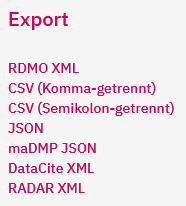
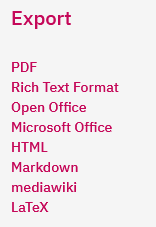
yet another update chapter 3.1

Changed region(s): [[0.0256, 0.2621, 0.9487, 0.9612], [0.0256, 0.0291, 0.4615, 0.1456]]

diff --git a/Kapitel3_Datenmanagement/organisation.md b/Kapitel3_Datenmanagement/organisation.md
@@ -37,36 +37,27 @@ Das oben genannte Datenmanagement wird durch das Verfassen eines DMP erreicht. W
 *Nochmal eingehen auf Auswahl und clusterung der daten*
 *Eingehen auf Datenbenennung*
 
-Im Beispielszenario 'Q-LCA Forschungsdatenveröffentlichung' musste ein DMP nachträglich verfasst werden, weil während der Projektlaufzeit noch keiner angelegt wurde. Dazu wurde das Tool Research Data Management Organiser <a href="https://rdmo.fdm-bb.de/" class="external-link" class="external-link" target="_blank">RDMO</a> verwendet. Zu den Vorteilen von RDMO gehört, dass es in Deutschland entwickelt wurde und daher auf die spezifischen Förderbedingungen und die Rechtslage Bezug nehmen kann. Anhand eines Fragenkatalogs werden Aussagen über das Projekt und die darin entstandenen Forschungsdaten zusammengestellt und ein DMP angefertigt. Darüber hinaus können Werte importiert und der DMP in verschiedenen Formaten (darunter XML, CSV und JSON) exportiert werden (s. Abb. 3.4).
+Im Beispielszenario 'Q-LCA Forschungsdatenveröffentlichung' musste ein DMP nachträglich verfasst werden, weil während der Projektlaufzeit noch keiner angelegt wurde. Dazu wurde das Tool Research Data Management Organiser <a href="https://rdmo.fdm-bb.de/" class="external-link" class="external-link" target="_blank">RDMO</a> verwendet. Zu den Vorteilen von RDMO gehört, dass es in Deutschland entwickelt wurde und daher auf die spezifischen Förderbedingungen und die Rechtslage Bezug nehmen kann. Anhand eines Fragenkatalogs werden Aussagen über das Projekt und die darin entstandenen Forschungsdaten zusammengestellt und ein DMP angefertigt. Darüber hinaus können Werte importiert und der DMP in verschiedenen Formaten exportiert werden (s. weiter unten, Abb. 3.6).
 
-```{figure} /assets/dmp_export.png
----
-align: center
-width: 100%
----
-Exportmöglichkeiten eines DMP bei RDMO Brandenburg.
-```
-*Quellenangabe: Screenshot der Exportmöglichkeiten eines DMP bei <a href="https://rdmo.fdm-bb.de/" class="external-link" class="external-link" target="_blank">RDMO Brandenburg</a> vom 09.10.2026.*
+Dieses Unterkapitel führt Sie durch das Anlegen eines DMP am Beispiel des DMP für das Projekt Q-LCA. Bitte beachten Sie: Um selbst einen DMP anzulegen, müssen Sie sich registrieren - z. B. für den <a href="https://rdmo.fdm-bb.de/account/signup/" class="external-link" target="_blank">Brandenburger RDMO-Dienst</a>. Falls Sie sich nicht registrieren wollen oder können, werden Sie durch Beispielbilder trotzdem in der Lage sein, dem Erstellen eines Datenmanagementplans zu folgen.
 
-Dieses Unterkapitel führt Sie Schritt für Schritt durch das Anlegen eines DMP am Beispiel des DMP für das Projekt Q-LCA. Bitte beachten Sie: Um selbst einen DMP anzulegen, müssen Sie sich registrieren - z. B. für den <a href="https://rdmo.fdm-bb.de/account/signup/" class="external-link" target="_blank">Brandenburger RDMO-Dienst</a>. Falls Sie sich nicht registrieren wollen oder können, werden Sie durch Beispielbilder trotzdem in der Lage sein, dem Erstellen eines Datenmanagementplans zu folgen.
-
-Nach der Anmeldung erstellen Sie ein neues Projekt, indem Sie auf den entsprechenden Button klicken. Dieses muss benannt und ein Fragenkatalog ausgewählt werden (s. Abb. 3.5). Der Katalog DFG in der Version 5 sei dabei empfohlen, weil er die <a href="hhttps://www.dfg.de/resource/blob/172112/4ea861510ea369157afb499e96fb359a/leitlinien-forschungsdaten-data.pdf" class="external-link" target="_blank">Leitlinien zum Umgang mit Forschungsdaten</a> mit der <a href="https://www.dfg.de/de/grundlagen-themen/digitale-themen/forschungsdaten" class="external-link" target="_blank">Checkliste zum Umgang mit Forschungsdaten</a> der DFG verbindet. Optional können Sie das Projekt zusätzlich einem übergeordneten Projekt zuweisen.
+Nach der Anmeldung erstellen Sie ein neues Projekt, indem Sie auf den entsprechenden Button klicken. Dieses muss benannt und ein Fragenkatalog ausgewählt werden (s. Abb. 3.4). Der Katalog DFG in der Version 5 sei dabei empfohlen, weil er die <a href="hhttps://www.dfg.de/resource/blob/172112/4ea861510ea369157afb499e96fb359a/leitlinien-forschungsdaten-data.pdf" class="external-link" target="_blank">Leitlinien zum Umgang mit Forschungsdaten</a> mit der <a href="https://www.dfg.de/de/grundlagen-themen/digitale-themen/forschungsdaten" class="external-link" target="_blank">Checkliste zum Umgang mit Forschungsdaten</a> der DFG verbindet. Optional können Sie das Projekt zusätzlich einem übergeordneten Projekt zuweisen.
 
 ```{figure} /assets/dmp_neues_projekt.png
 ---
 align: center
-width: 33%
+width: 50%
 ---
 Eingabemaske zum Anlegen eines neuen Projektes bei RDMO Brandenburg.
 ```
 *Quellenangabe: Screenshot der Eingabemaske zum Anlegen eines neuen Projektes bei <a href="https://rdmo.fdm-bb.de/" class="external-link" class="external-link" target="_blank">RDMO Brandenburg</a> vom 09.10.2026.*
 
-Nachdem das Projekt angelegt wurde, müssen über den Button 'Fragen beantworten' Aussagen zum Projekt und den im Projekt erhobenen Daten eingegeben werden (s. Abb. 3.6).
+Nachdem das Projekt angelegt wurde, müssen über den Button 'Fragen beantworten' Aussagen zum Projekt und den im Projekt erhobenen Daten eingegeben werden (s. Abb. 3.5).
 
 ```{figure} /assets/dmp_fragen_beantworten.png
 ---
 align: center
-width: 33%
+width: 50%
 ---
 Projektansicht mit dem Button 'Fragen beantworten' oben rechts bei RDMO Brandenburg.
 ```
@@ -76,26 +67,27 @@ Anschließend fügen Sie die Datensätze hinzu, die im Projekt entstanden sind. 
 
 ```{admonition} Hinweis
 :class: hinweis
-Die Benennung der Forschungsdaten ist nicht trivial. Überlegen Sie sich eine sinnvolle Ordnung und Zusammenstellung und behalten Sie diese bei. Das im DMP als "FD3_Bilanzierungstool" bezeichnete Datum bzw. Datenpaket sollte auf der Veröffentlichungsplattform genauso heißen. Die Zusammenfassung von Forschungsdaten zu Paketen hat den Vorteil, dass Sie die Dateibenennung, die sich während des Projektes etabliert hat, nicht ändern zu müssen. So lassen sich beispielsweise verschiedene Screenshots in einem Paket "FD4_Screenshots" zusammenfassen. 
+Die Benennung der Forschungsdaten ist nicht trivial. Überlegen Sie sich eine sinnvolle Ordnung und Zusammenstellung und behalten Sie diese bei. Das im DMP als "FD3_Bilanzierungstool" bezeichnete Datum bzw. Datenpaket sollte auf der Veröffentlichungsplattform genauso heißen. Die Zusammenfassung von Forschungsdaten zu Paketen hat den Vorteil, dass Sie die Dateibenennung, die sich während des Projektes etabliert hat, nicht ändern müssen. So lassen sich beispielsweise verschiedene Screenshots in einem Paket "FD4_Screenshots" zusammenfassen. 
 ``` 
-
-Schritte sind u. a.:
-
-- Dateibenennung (Benennung der Forschungsdaten nach einem Schema) -> Hier gilt es mitzunehmen, dass die Dateibenennung im Nachhinein sehr mühsam ist und das aufzupassen ist, dass keine Verständigungsprobleme auftauchen
-- Metadaten (Angabe von Metadaten nach Konventionen der Disziplin)
-- FAIRifizierung/FAIRification (Vollständigkeit der Beschreibung, Maximierung der Interoperabilität (was kann standardisiert werden -> nach ISO), *hier u. a. auch Formate*) -> dazu auch FAIRification von FD-Objekten: https://datascience.codata.org/articles/dsj-2021-004 
-- README (README-Datei zur Dokumentation Anlegen)
 
 Übrigens: RDMO speichert Ihren Fortschritt. Sie müssen also nicht alles in einer Sitzung bearbeiten und fertigstellen.
 
+Am Ende liegt ein Überblick über Ihre Daten vor, der je nach Fragenkatalog verschieden beschrieben ist. Diese sind nun übersichtlich gegliedert und lassen sich u. a. als PDF, Office Dokument oder Markdown Datei exportieren (s. Abb. 3.6). 
+
+```{figure} /assets/dmp_export.png
+---
+align: center
+width: 50%
+---
+Exportmöglichkeiten eines DMP bei RDMO Brandenburg.
+```
+*Quellenangabe: Screenshot der Exportmöglichkeiten eines DMP bei <a href="https://rdmo.fdm-bb.de/" class="external-link" class="external-link" target="_blank">RDMO Brandenburg</a> vom 09.10.2026.*
+
 ## Learnings
 
-- Struktur soweit wie möglich aus dem Projekt übernehmen (Strukturen und Benennungen sind nicht ohne Grund entstanden und folgen einer Logik)
-- Für Quadriga mitnehmen: Dateibenennung im Nachhinein mühsam, aufpassen, dass keine Verständigungsprobleme entstehen.
-- Merke Quadriga: Benennung der Dateien schwierig, oft Anpassungen von Partnern, am Ende muss viel glatt gezogen werden
+Übernehmen Sie die Struktur der Daten soweit wie möglich aus dem Projekt. Diese ist in der Regel nicht ohne Grund entstanden und lässt sich durch eine Dokumentation auch nachvollziehen. Diese Struktur kann der Grundaufbau der Datenbereitstellung sein. Diese sollte egal ob als ZIP, Gesamt- oder Teil-ZIP eine logische Ordnung und Clusterung aufweisen.  
 
-- auch die Bereitstellung war ein Thema (als ZIP, Gesamt-ZIP, Teil-ZIP) -> logische Ordnung und Clusterung
-- Versionierung und Dateibenennung Kompetenzen, die gebraucht werden, wenn man nachträglich aufarbeitet
+In Bezug auf die Dateibenennung sollte beachtet werden, dass zwar einerseits eine verständliche Benennung sinnvoll ist, andererseits bei einer Umbenennung im Nachhinein Vorsicht geboten ist. Die Entwicklung von Dateibenennungen im Projekt folgt oft einer eigenen Logik und ein nachträgliches Umbenennen kann zu Verständigungsproblemen führen. Darüber hinaus ist diese sehr fehleranfällig. Es gilt also einen guten Mittelweg zu finden und eine einmal getroffene Entscheidung konsequent durchzuführen.
 
 ---
 
@@ -107,11 +99,6 @@ Schritte sind u. a.:
 - 5-minütiges Video "Datenmanagement nach Plan" von Schmitz et al. (2019) unter der Lizenz <a href="https://creativecommons.org/licenses/by/4.0/legalcode" class="external-link" target="_blank">CC BY 4.0</a> via <a href="https://publications.rwth-aachen.de/record/751109" class="external-link" target="_blank">RWTH Aachen</a>
 ```
 
----
+Im nächsten Unterkapitel stehen Metadaten, die FAIRifizierung von Datensätzen und das Anlegen einer README-Datei im Fokus. Diese Aspekte können zwar auch Teil des DMP sein, gehören aber zur Kompetenz "Erschließung".
 
-**Literatur**
-
-```{bibliography}
-:filter: docname in docnames
-```
 

diff --git a/Kapitel3_Datenmanagement/erschliessung.md b/Kapitel3_Datenmanagement/erschliessung.md
@@ -14,6 +14,11 @@ Die Kompetenz 3.2 Erschließung des QUADRIGA Datenkompetenzframeworks.
 
 ---
 
+Schritte sind u. a.:
+- Metadaten (Angabe von Metadaten nach Konventionen der Disziplin)
+- FAIRifizierung/FAIRification (Vollständigkeit der Beschreibung, Maximierung der Interoperabilität (was kann standardisiert werden -> nach ISO), *hier u. a. auch Formate*) -> dazu auch FAIRification von FD-Objekten: https://datascience.codata.org/articles/dsj-2021-004 
+- README (README-Datei zur Dokumentation Anlegen)
+
 ## Ausgangslage
 
 Im Rahmen der Erschließung der Daten, müssen **Metadaten** vergeben werden, wenn das an anderer Stelle noch nicht geschehen ist. Dies sollte nach den Konventionen der Disziplin geschehen, aus der die Forschungsdaten stammen.  

diff --git a/Kapitel3_Datenmanagement/assessment.md b/Kapitel3_Datenmanagement/assessment.md
@@ -13,7 +13,7 @@ kernelspec:
 (datenmanagement:assessment)=
 # 🏆Selbsttest: Datenmanagement
 ````{admonition} Hinweis
-:class: hinweis, dropdown
+:class: hinweis
 Diese Übungsaufgaben dienen Ihrer Selbsteinschätzung und helfen Ihnen, das im Kapitel Gelernte zu reflektieren.
 
 Sie können die Fragen in beliebiger Reihenfolge beantworten und auch mehrfach versuchen. 
